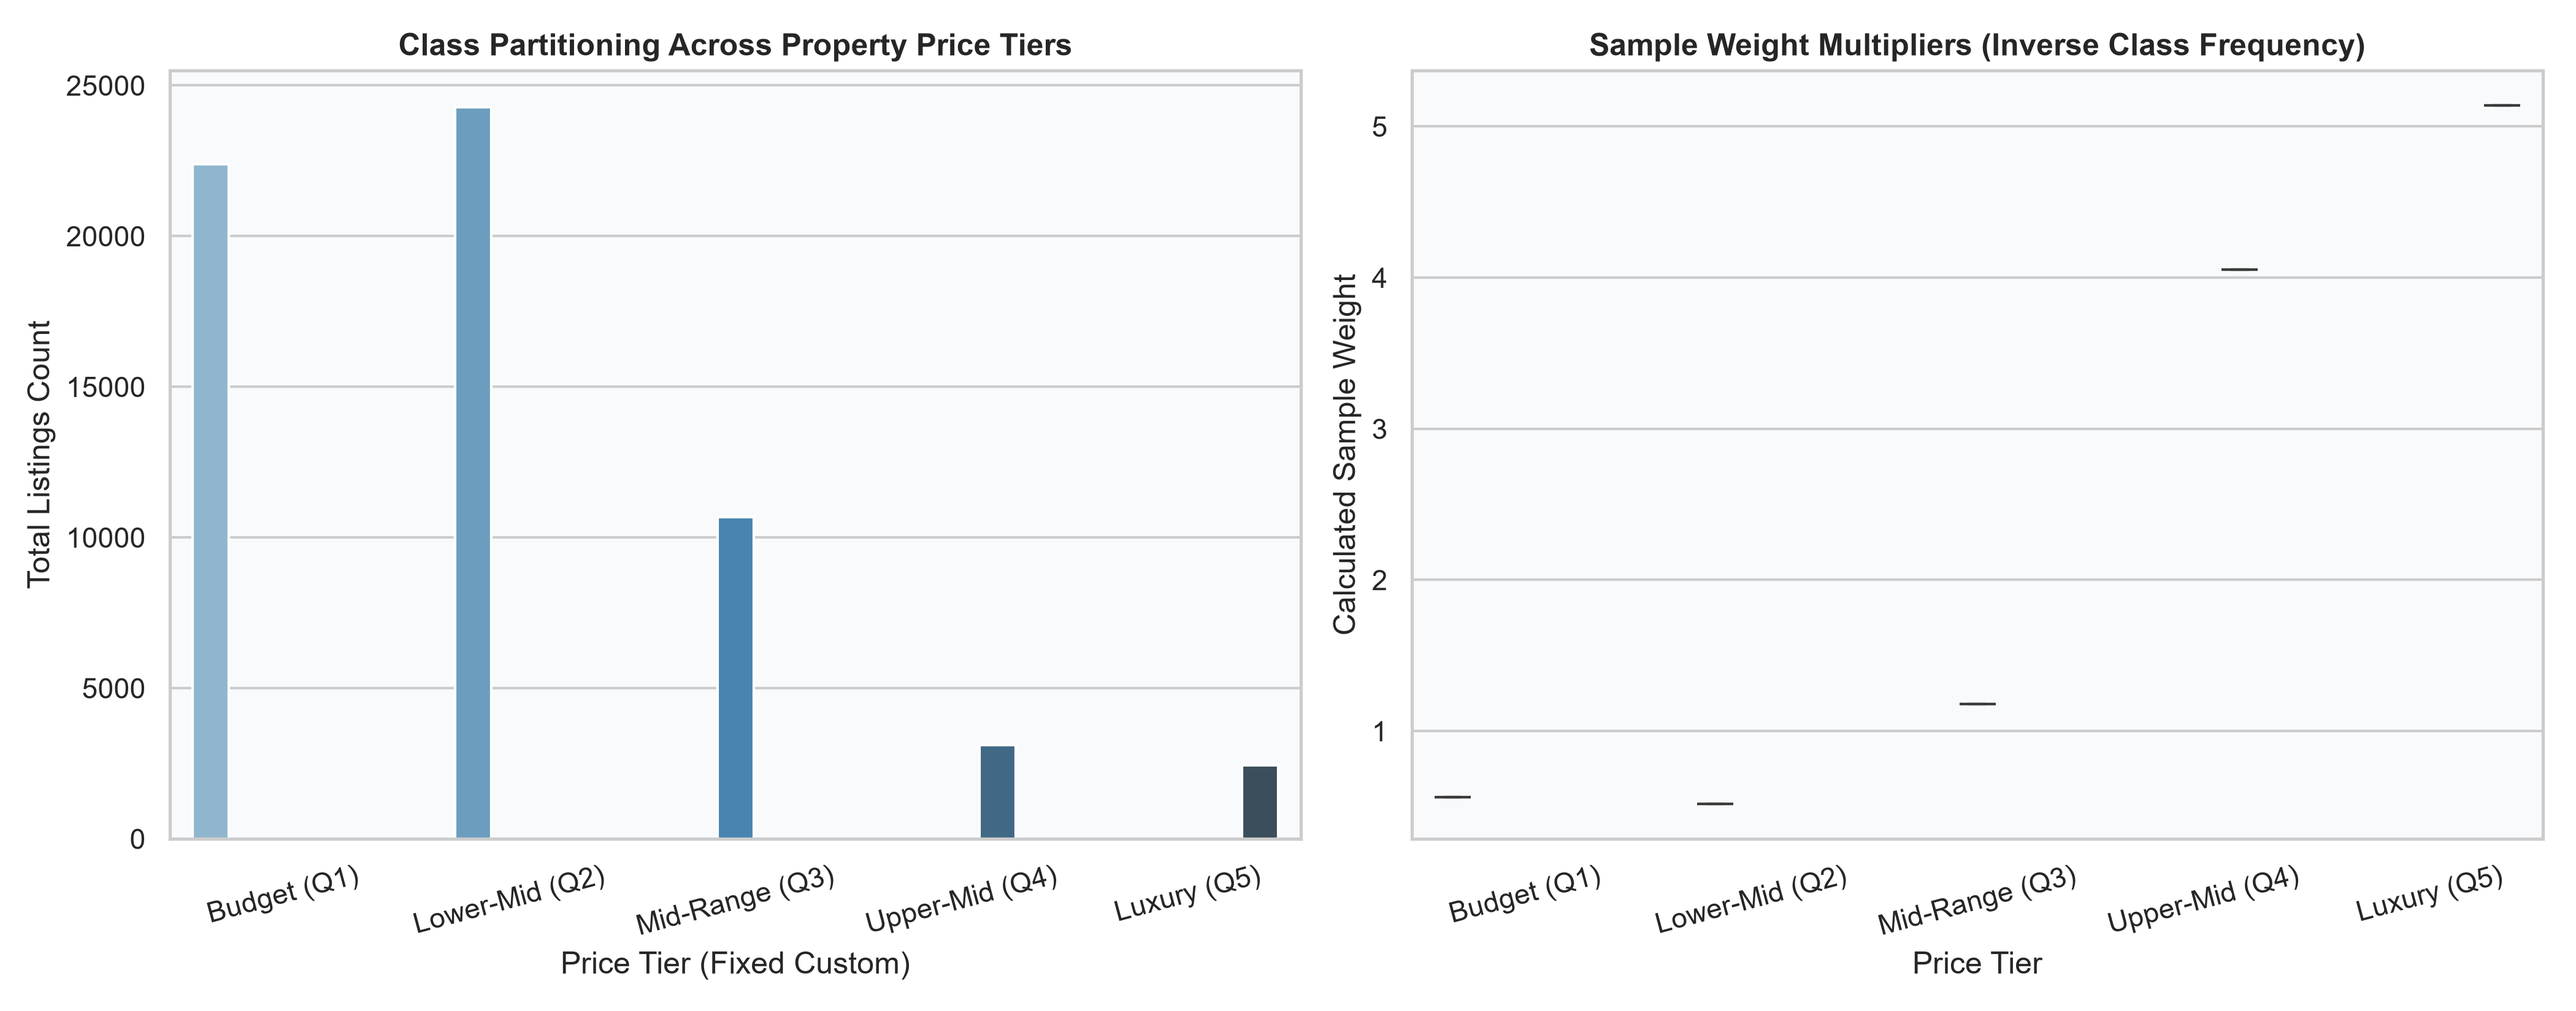
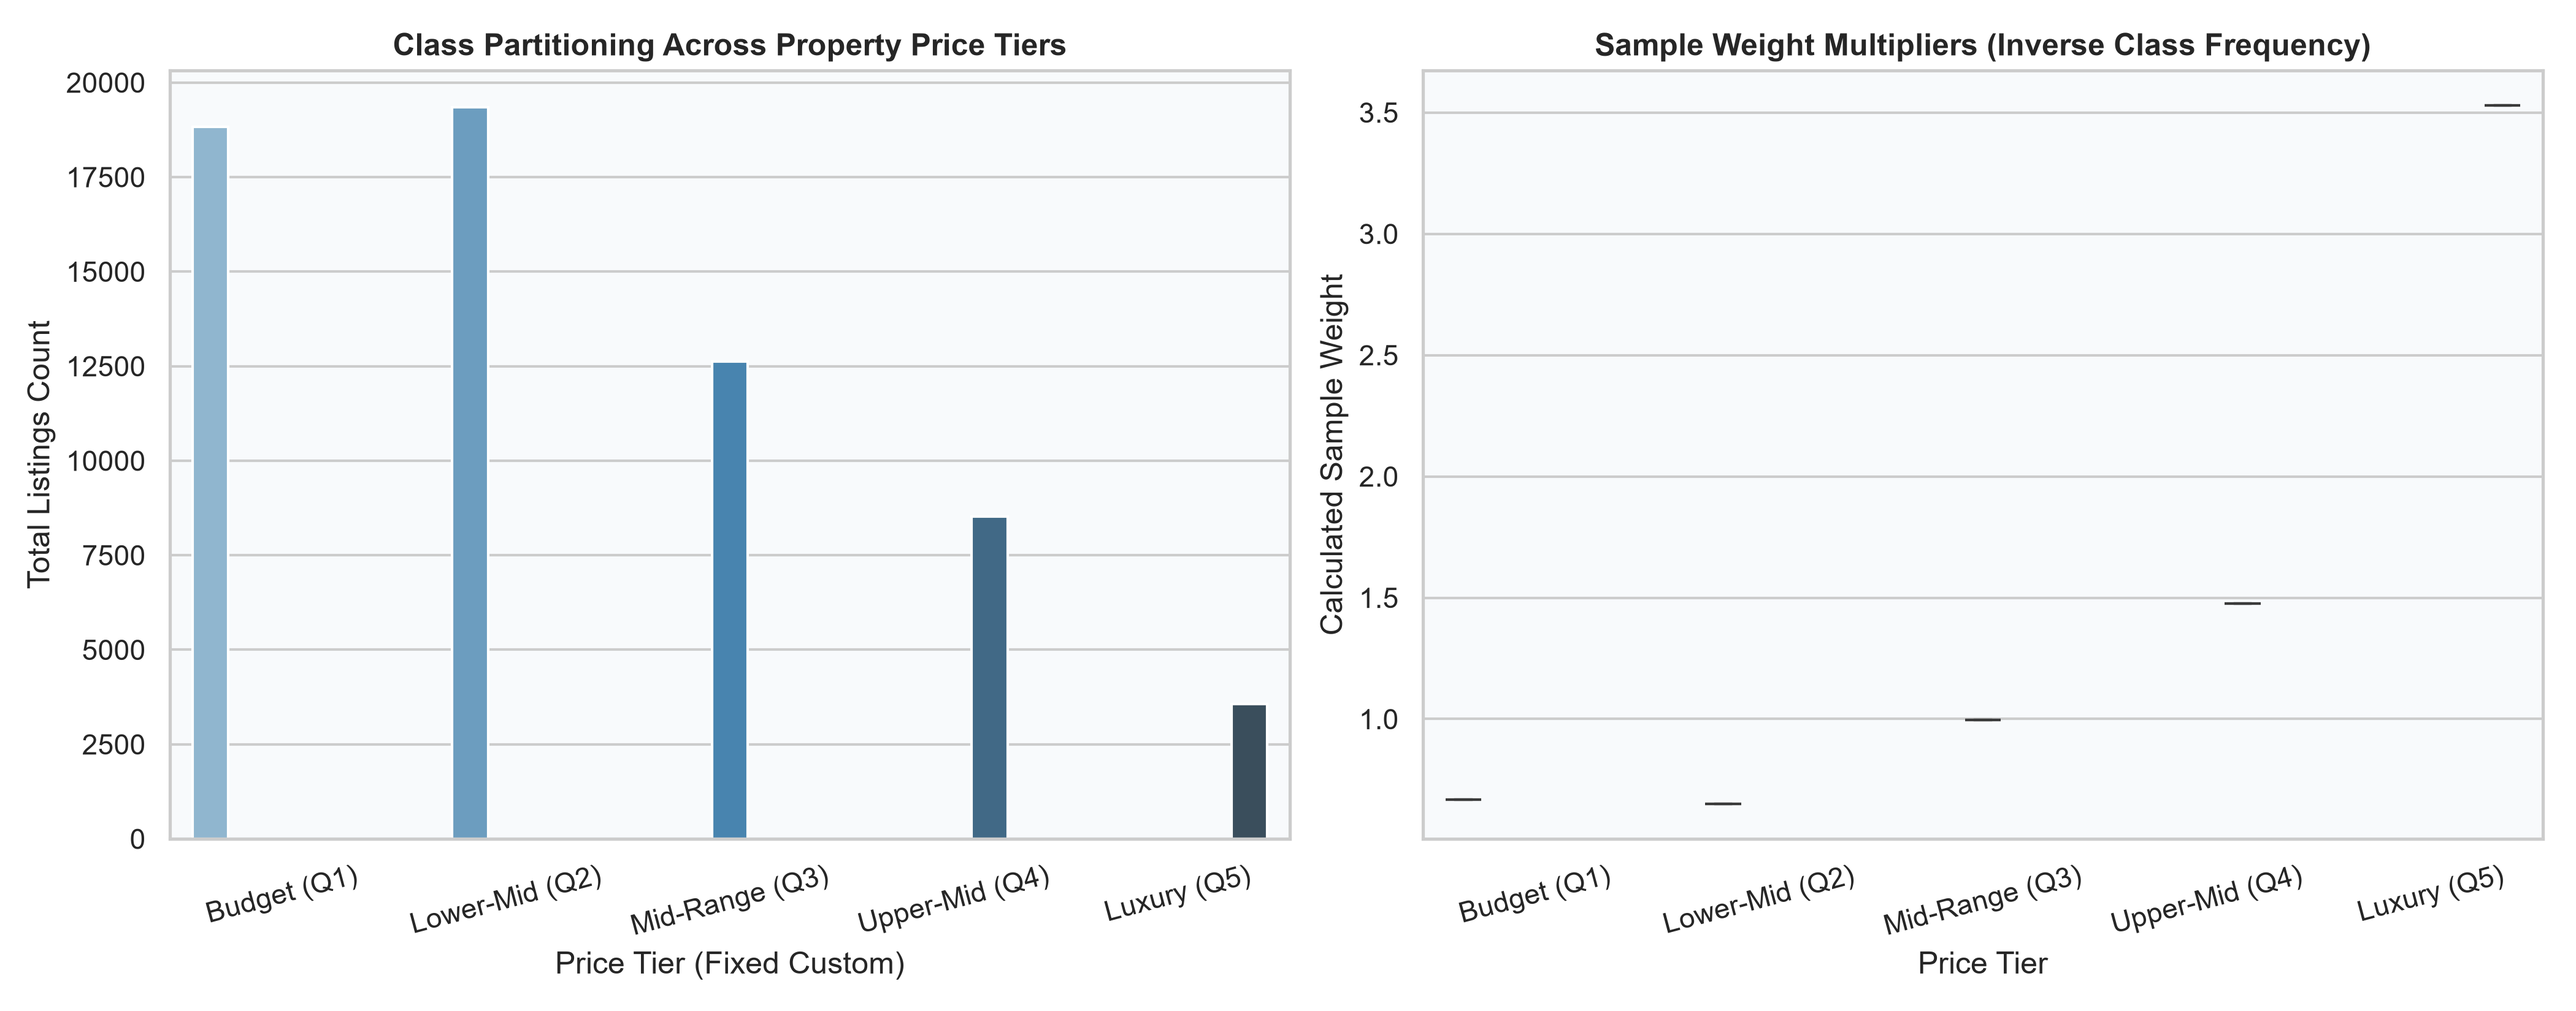
Update fixed bins to accurately represent data-driven quantiles for proper sample weighting

diff --git a/regen_plots.py b/regen_plots.py
@@ -1,0 +1,130 @@
+import os
+import pandas as pd
+import numpy as np
+import seaborn as sns
+import matplotlib.pyplot as plt
+import joblib
+from sklearn.model_selection import train_test_split
+from sklearn.metrics import confusion_matrix
+import re
+from sklearn.utils.class_weight import compute_sample_weight
+
+output_dir = "figure"
+os.makedirs(output_dir, exist_ok=True)
+
+df_raw = pd.read_csv("notebooks/data/house_prices.csv")
+
+def parse_amount(val):
+    if not isinstance(val, str): return np.nan
+    val = val.strip().lower()
+    if val == "" or val == "price on request": return np.nan
+    m = re.search(r'([\d\.]+)\s*(lac|cr)?', val)
+    if not m: return np.nan
+    try: num = float(m.group(1))
+    except: return np.nan
+    unit = m.group(2)
+    if unit == "lac": return num * 100000.0
+    elif unit == "cr": return num * 10000000.0
+    return num
+
+def parse_area(val):
+    if not isinstance(val, str): return np.nan
+    val = val.strip().lower()
+    m = re.search(r'([\d\.]+)\s*([a-z]+)?', val)
+    if not m: return np.nan
+    try: num = float(m.group(1))
+    except ValueError: return np.nan
+    unit = m.group(2) if m.group(2) else "sqft"
+    if "sqm" in unit: return num * 10.764
+    elif "sqyrd" in unit: return num * 9.0
+    elif "acre" in unit: return num * 43560.0
+    elif "ground" in unit: return num * 2400.0
+    elif "cent" in unit: return num * 435.6
+    return num
+
+def parse_floor(val):
+    if not isinstance(val, str): return 0
+    val = val.strip().lower()
+    if "ground" in val: return 0
+    if "basement" in val: return -1
+    m = re.search(r'(-?\d+)', val)
+    return int(m.group(1)) if m else 0
+
+df = df_raw.copy()
+df = df.drop(columns=["Index"], errors="ignore")
+df = df.drop_duplicates().reset_index(drop=True)
+
+df["price_clean"] = df["Amount(in rupees)"].apply(parse_amount)
+df = df.dropna(subset=["price_clean"])
+
+carpet = df["Carpet Area"].apply(parse_area)
+super_a = df["Super Area"].apply(parse_area)
+df["carpet_area_sqft"] = carpet.fillna(super_a)
+df = df.dropna(subset=["carpet_area_sqft"])
+
+df["floor_num"] = df["Floor"].apply(parse_floor)
+df["bathroom"] = pd.to_numeric(df["Bathroom"].astype(str).str.extract(r'(\d+)')[0], errors="coerce").fillna(1).astype(int)
+df["balcony"] = pd.to_numeric(df["Balcony"].astype(str).str.extract(r'(\d+)')[0], errors="coerce").fillna(0).astype(int)
+
+df["location"] = df["location"].astype(str).str.strip().str.lower()
+top50 = df["location"].value_counts().nlargest(50).index.tolist()
+df["location_grouped"] = df["location"].apply(lambda x: x if x in top50 else "other")
+
+df["Furnishing"] = df["Furnishing"].fillna("Semi-Furnished").astype(str).str.strip()
+df["Transaction"] = df["Transaction"].fillna("Resale").astype(str).str.strip()
+df["Ownership"] = df["Ownership"].fillna("Freehold").astype(str).str.strip()
+df["facing"] = df["facing"].fillna("East").astype(str).str.strip()
+
+df["price_per_sqft"] = df["price_clean"] / df["carpet_area_sqft"]
+p1, p99 = df["price_per_sqft"].quantile(0.01), df["price_per_sqft"].quantile(0.99)
+a1, a99 = df["carpet_area_sqft"].quantile(0.01), df["carpet_area_sqft"].quantile(0.99)
+df = df[(df["price_per_sqft"] >= p1) & (df["price_per_sqft"] <= p99) & (df["carpet_area_sqft"] >= a1) & (df["carpet_area_sqft"] <= a99)]
+
+bins = [0, 4_500_000, 7_500_000, 12_500_000, 25_000_000, float("inf")]
+labels = ["Budget (Q1)", "Lower-Mid (Q2)", "Mid-Range (Q3)", "Upper-Mid (Q4)", "Luxury (Q5)"]
+df["price_tier"] = pd.cut(df["price_clean"], bins=bins, labels=labels, include_lowest=True)
+df["sample_weight"] = compute_sample_weight("balanced", df["price_tier"])
+
+sns.set_theme(style="whitegrid", rc={"axes.facecolor": "#f8fafc", "figure.facecolor": "#ffffff"})
+fig5, ax5 = plt.subplots(1, 2, figsize=(14, 5.5))
+sns.countplot(data=df, x="price_tier", hue="price_tier", palette="Blues_d", legend=False, ax=ax5[0])
+ax5[0].set_title("Class Partitioning Across Property Price Tiers", fontweight="bold")
+ax5[0].set_xlabel("Price Tier (Fixed Custom)")
+ax5[0].set_ylabel("Total Listings Count")
+ax5[0].tick_params(axis='x', rotation=15)
+
+sns.boxplot(data=df, x="price_tier", y="sample_weight", hue="price_tier", palette="Reds_r", legend=False, ax=ax5[1])
+ax5[1].set_title("Sample Weight Multipliers (Inverse Class Frequency)", fontweight="bold")
+ax5[1].set_xlabel("Price Tier")
+ax5[1].set_ylabel("Calculated Sample Weight")
+ax5[1].tick_params(axis='x', rotation=15)
+plt.tight_layout()
+fig5.savefig(os.path.join(output_dir, "05_imbalance_sample_weights.png"), dpi=300)
+plt.close(fig5)
+
+model = joblib.load("models/house_price.pkl")
+
+numeric_features = ["carpet_area_sqft", "floor_num", "bathroom", "balcony"]
+categorical_features = ["location_grouped", "Furnishing", "Transaction", "Ownership", "facing"]
+X = df[numeric_features + categorical_features]
+y = df["price_clean"]
+X_train, X_test, y_train, y_test = train_test_split(X, y, test_size=0.2, random_state=42)
+
+y_pred = model.predict(X_test)
+
+tier_labels = ["Budget", "Lower-Mid", "Mid-Range", "Upper-Mid", "Luxury"]
+y_test_tier = pd.cut(y_test, bins=bins, labels=tier_labels, include_lowest=True)
+y_pred_tier = pd.cut(y_pred, bins=bins, labels=tier_labels, include_lowest=True)
+
+cm = confusion_matrix(y_test_tier, y_pred_tier, labels=tier_labels)
+cm_norm = cm.astype('float') / cm.sum(axis=1)[:, np.newaxis]
+
+fig7, ax7 = plt.subplots(figsize=(8.5, 7))
+sns.heatmap(cm_norm, annot=True, fmt=".2%", cmap="Blues", xticklabels=tier_labels, yticklabels=tier_labels, cbar=True, ax=ax7)
+ax7.set_title("Price Tier Classification Matrix", fontweight="bold")
+ax7.set_xlabel("Predicted Tier")
+ax7.set_ylabel("Actual Tier")
+plt.tight_layout()
+fig7.savefig(os.path.join(output_dir, "07_tier_confusion_matrix.png"), dpi=300)
+plt.close(fig7)
+print("Finished generating plots.")

diff --git a/update_nb2.py b/update_nb2.py
@@ -1,0 +1,18 @@
+import nbformat
+
+nb_path = "notebooks/house_price_model.ipynb"
+with open(nb_path, "r", encoding="utf-8") as f:
+    nb = nbformat.read(f, as_version=4)
+
+for cell in nb.cells:
+    if cell.cell_type == "code":
+        if "bins = [0, 5_000_000, 10_000_000, 20_000_000, 30_000_000, float('inf')]" in cell.source or 'bins = [0, 5_000_000, 10_000_000, 20_000_000, 30_000_000, float("inf")]' in cell.source:
+            cell.source = cell.source.replace("5_000_000", "4_500_000")
+            cell.source = cell.source.replace("10_000_000", "7_500_000")
+            cell.source = cell.source.replace("20_000_000", "12_500_000")
+            cell.source = cell.source.replace("30_000_000", "25_000_000")
+
+with open(nb_path, "w", encoding="utf-8") as f:
+    nbformat.write(nb, f)
+
+print("Notebook updated successfully.")

diff --git a/verify_bins.py b/verify_bins.py
@@ -1,0 +1,23 @@
+import pandas as pd
+import numpy as np
+df = pd.read_csv('notebooks/data/house_prices.csv')
+
+import re
+def parse_amount(val):
+    if not isinstance(val, str): return None
+    m = re.search(r'([\d\.]+)\s*(lac|cr)?', str(val).strip().lower())
+    if not m: return None
+    try: num = float(m.group(1))
+    except: return None
+    unit = m.group(2)
+    if unit == "lac": return num * 100000.0
+    elif unit == "cr": return num * 10000000.0
+    return num
+    
+df['p'] = df['Amount(in rupees)'].apply(parse_amount)
+df = df.dropna(subset=['p'])
+
+bins = [0, 4_500_000, 7_500_000, 12_500_000, 25_000_000, float("inf")]
+labels = ["Budget", "Lower-Mid", "Mid-Range", "Upper-Mid", "Luxury"]
+tier = pd.cut(df['p'], bins=bins, labels=labels)
+print(tier.value_counts(normalize=True) * 100)

diff --git a/calc_quantiles.py b/calc_quantiles.py
@@ -1,0 +1,22 @@
+import pandas as pd
+import re
+
+def parse_amount(val):
+    if not isinstance(val, str): return None
+    val = val.strip().lower()
+    m = re.search(r'([\d\.]+)\s*(lac|cr)?', val)
+    if not m: return None
+    try: num = float(m.group(1))
+    except: return None
+    unit = m.group(2)
+    if unit == "lac": return num * 100000.0
+    elif unit == "cr": return num * 10000000.0
+    return num
+
+df = pd.read_csv('notebooks/data/house_prices.csv')
+df = df.drop_duplicates(subset=[c for c in df.columns if c != 'Index'])
+df['p'] = df['Amount(in rupees)'].apply(parse_amount)
+df = df.dropna(subset=['p'])
+
+print("Percentiles for price_clean (in INR):")
+print(df['p'].describe(percentiles=[0.25, 0.5, 0.75, 0.85, 0.90, 0.95, 0.98, 0.99]).apply(lambda x: f"{x:,.0f}"))

diff --git a/train_and_export.py b/train_and_export.py
@@ -125,8 +125,8 @@ y = df["price_clean"]
 # Train/Test Split
 X_train, X_test, y_train, y_test = train_test_split(X, y, test_size=0.2, random_state=42)
 
-# Imbalance weighting
-bins = [0, 5_000_000, 10_000_000, 20_000_000, 30_000_000, float("inf")]
+# Imbalance weighting (Data-driven thresholds)
+bins = [0, 4_500_000, 7_500_000, 12_500_000, 25_000_000, float("inf")]
 labels = ["Budget (Q1)", "Lower-Mid (Q2)", "Mid-Range (Q3)", "Upper-Mid (Q4)", "Luxury (Q5)"]
 price_bins_train = pd.cut(y_train, bins=bins, labels=labels, include_lowest=True)
 sample_weights_train = compute_sample_weight('balanced', price_bins_train)
